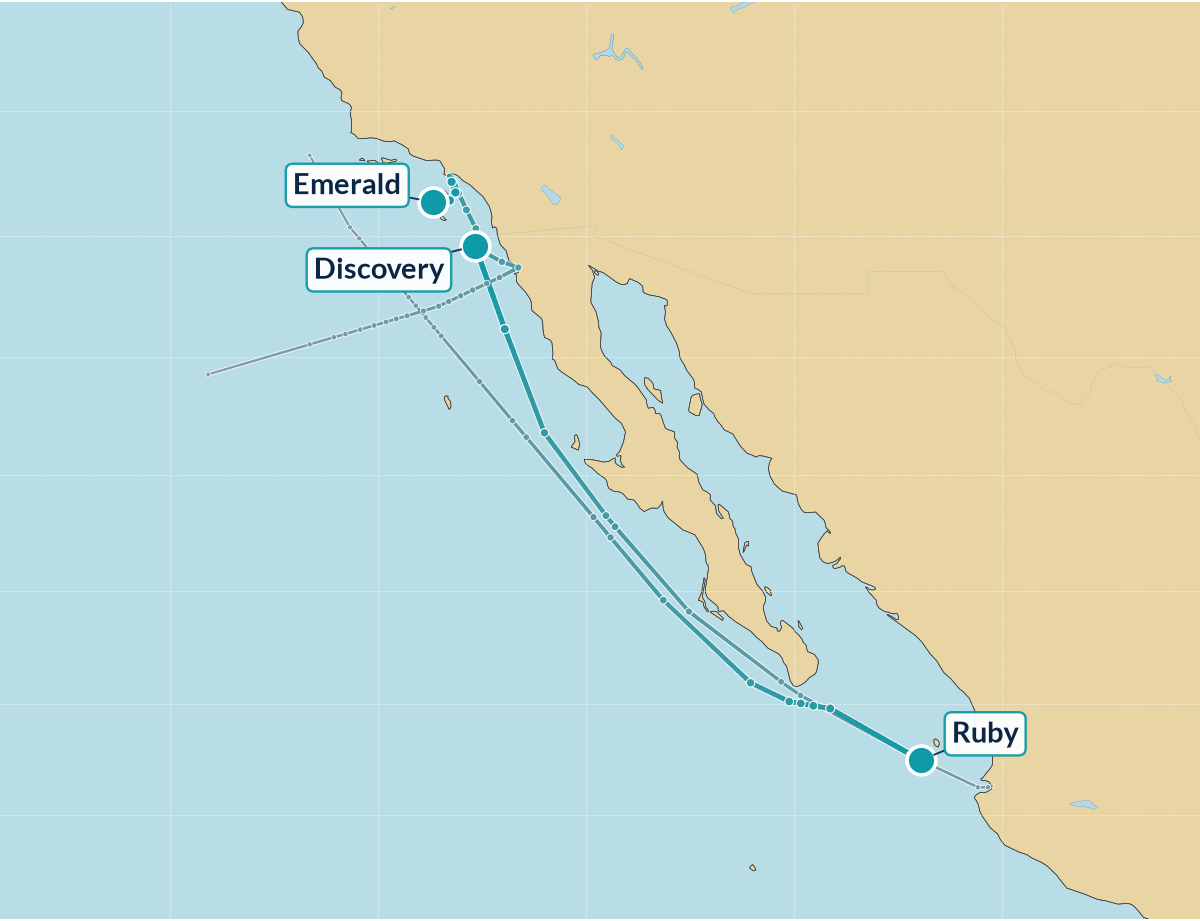
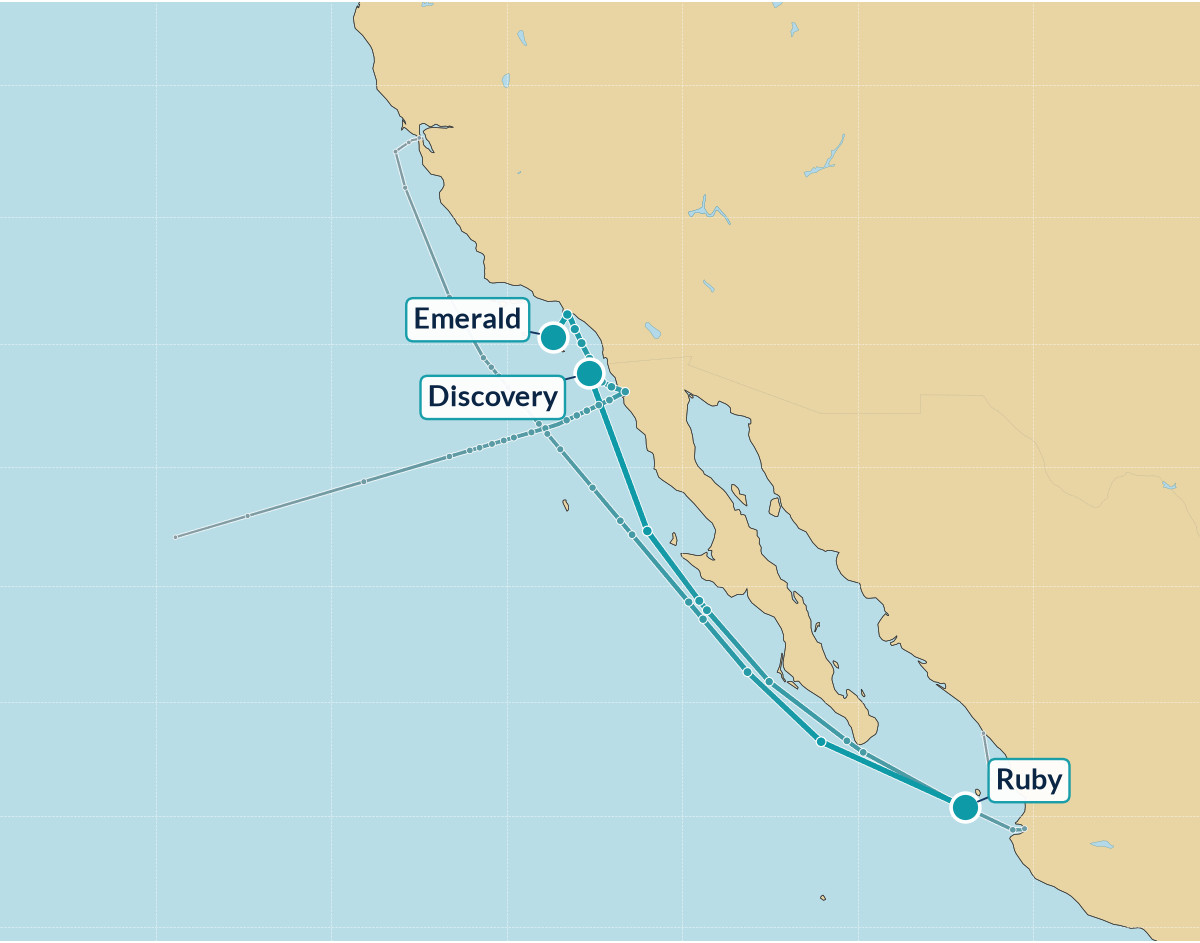
Update 10/17 00:01 PT

diff --git a/index.html b/index.html
@@ -4,45 +4,45 @@
 <table role="presentation" width="100%" cellpadding="0" cellspacing="0" border="0" bgcolor="#dee2e8" style="background-color:#dee2e8;border-collapse:collapse;"><tr><td align="center" style="padding:16px 8px;">
 <table role="presentation" width="100%" cellpadding="0" cellspacing="0" border="0" bgcolor="#fdfdfb" style="width:100%;max-width:900px;background-color:#fdfdfb;border-collapse:collapse;border:1px solid #d6dae0;">
 <tr><td bgcolor="#1d3a6b" align="left" style="background-color:#1d3a6b;padding:24px 28px 24px 28px;"><div style="font-family:Georgia, 'Times New Roman', Times, serif;font-size:40px;line-height:46px;color:#ffffff;letter-spacing:0.5px;"><span style="color:#a8b6e2;">≋</span>&nbsp;Princess Patter</div></td></tr>
-<tr><td style="padding:0;"><table role="presentation" width="100%" cellpadding="0" cellspacing="0" border="0" style="border-collapse:collapse;"><tr><td height="5" bgcolor="#6a5aa8" style="background-color:#6a5aa8;height:5px;font-size:0;line-height:0;width:60%;">&nbsp;</td><td height="5" bgcolor="#2f6db5" style="background-color:#2f6db5;height:5px;font-size:0;line-height:0;width:40%;">&nbsp;</td></tr></table></td></tr><tr><td bgcolor="#1d3a6b" style="background:linear-gradient(#1d3a6b,#2f6db5);padding:10px 16px 14px;text-align:center;"><img src="regal.png?v=202610162301" alt="Regal Princess" style="width:100%;max-width:640px;height:auto;display:block;margin:0 auto;"></td></tr>
+<tr><td style="padding:0;"><table role="presentation" width="100%" cellpadding="0" cellspacing="0" border="0" style="border-collapse:collapse;"><tr><td height="5" bgcolor="#6a5aa8" style="background-color:#6a5aa8;height:5px;font-size:0;line-height:0;width:60%;">&nbsp;</td><td height="5" bgcolor="#2f6db5" style="background-color:#2f6db5;height:5px;font-size:0;line-height:0;width:40%;">&nbsp;</td></tr></table></td></tr><tr><td bgcolor="#1d3a6b" style="background:linear-gradient(#1d3a6b,#2f6db5);padding:10px 16px 14px;text-align:center;"><img src="regal.png?v=202610170001" alt="Regal Princess" style="width:100%;max-width:640px;height:auto;display:block;margin:0 auto;"></td></tr>
 <tr><td style="padding:22px 20px 6px 20px;">
 <div style="font-family:Georgia, 'Times New Roman', Times, serif;font-style:italic;font-size:20px;line-height:26px;color:#2f6db5;">Good evening!</div>
 <div style="font-family:Georgia, 'Times New Roman', Times, serif;font-weight:bold;font-size:26px;line-height:32px;color:#1d3a6b;padding-top:6px;">Friday, October 16, 2026</div>
 <div style="font-family:Helvetica, Arial, sans-serif;font-size:16px;line-height:22px;color:#2f6db5;padding-top:4px;">11:00pm PT | 17 ships | 12 at sea, 5 in port</div>
-</td></tr><tr><td style="padding:14px 20px 0 20px;"><div style="font-family:Georgia, 'Times New Roman', Times, serif;font-style:italic;font-weight:bold;font-size:18px;color:#295aa0;padding:0 4px 4px;border-bottom:1px solid #295aa0;">pacific map</div><a href="map.png?v=202610162301"><img src="map.png?v=202610162301" alt="Pacific fleet map" style="width:100%;height:auto;display:block;margin-top:8px;border-radius:12px;border:2px solid #c8dee2;"></a></td></tr>
+</td></tr><tr><td style="padding:14px 20px 0 20px;"><div style="font-family:Georgia, 'Times New Roman', Times, serif;font-style:italic;font-weight:bold;font-size:18px;color:#295aa0;padding:0 4px 4px;border-bottom:1px solid #295aa0;">pacific map</div><a href="map.png?v=202610170001"><img src="map.png?v=202610170001" alt="Pacific fleet map" style="width:100%;height:auto;display:block;margin-top:8px;border-radius:12px;border:2px solid #c8dee2;"></a></td></tr>
 <tr><td style="padding:14px 20px 4px 20px;">
 <table role="presentation" width="100%" cellpadding="0" cellspacing="0" border="0" style="border-collapse:collapse;width:100%;font-family:Helvetica, Arial, sans-serif;font-size:15px;line-height:20px;color:#262c38;">
 <tr bgcolor="#2f6db5" style="background-color:#2f6db5;"><td style="font-size:14px;line-height:18px;font-weight:bold;color:#ffffff;text-align:left;padding:9px 8px;padding-left:10px;" colspan="2">Ship</td><td style="font-size:14px;line-height:18px;font-weight:bold;color:#ffffff;text-align:left;padding:9px 8px;">Where</td><td style="font-size:14px;line-height:18px;font-weight:bold;color:#ffffff;text-align:left;padding:9px 8px;">Next Port</td></tr>
 <tr><td colspan="4" style="padding:14px 4px 4px 4px;border-bottom:1px solid #295aa0;font-family:Georgia, 'Times New Roman', Times, serif;font-style:italic;font-weight:bold;font-size:18px;line-height:22px;color:#295aa0;">canada &amp; new england</td></tr>
-<tr bgcolor="#eef0f3" style="background-color:#eef0f3;"><td width="18" style="padding:7px 0 7px 8px;vertical-align:top;width:18px;color:#1a9a9a;font-size:18px;">&nbsp;</td><td style="padding:7px 8px;vertical-align:top;"><b style="color:#1d3a6b;">Sapphire</b></td><td style="padding:7px 8px;vertical-align:top;">At Sea <span style="white-space:nowrap;font-size:12px;color:#707884;" title="Forecast high/low">🌫&thinsp;57°</span> <span style="font-size:12px;color:#707884;"><span style="white-space:nowrap;">🌊 7 ft</span> &middot; <span style="white-space:nowrap;">💨 SW 23 kt</span> &middot; <span style="white-space:nowrap;">🚢 10.3 kn</span></span></td><td style="padding:7px 8px;vertical-align:top;">Halifax <span style="white-space:nowrap;font-size:12px;color:#707884;" title="Forecast high/low">🌦&thinsp;61°/36°</span> <span style="font-size:13px;color:#707884;">(10/17 3am)</span></td></tr>
+<tr bgcolor="#eef0f3" style="background-color:#eef0f3;"><td width="18" style="padding:7px 0 7px 8px;vertical-align:top;width:18px;color:#1a9a9a;font-size:18px;">&nbsp;</td><td style="padding:7px 8px;vertical-align:top;"><b style="color:#1d3a6b;">Sapphire</b></td><td style="padding:7px 8px;vertical-align:top;">At Sea <span style="white-space:nowrap;font-size:12px;color:#707884;" title="Forecast high/low">🌫&thinsp;57°</span> <span style="font-size:12px;color:#707884;"><span style="white-space:nowrap;">🌊 7 ft</span> &middot; <span style="white-space:nowrap;">💨 WSW 22 kt</span> &middot; <span style="white-space:nowrap;">🚢 10.3 kn</span></span></td><td style="padding:7px 8px;vertical-align:top;">Halifax <span style="white-space:nowrap;font-size:12px;color:#707884;" title="Forecast high/low">🌦&thinsp;61°/36°</span> <span style="font-size:13px;color:#707884;">(10/17 3am)</span></td></tr>
 <tr><td colspan="4" style="padding:14px 4px 4px 4px;border-bottom:1px solid #295aa0;font-family:Georgia, 'Times New Roman', Times, serif;font-style:italic;font-weight:bold;font-size:18px;line-height:22px;color:#295aa0;">caribbean</td></tr>
 <tr bgcolor="#eef0f3" style="background-color:#eef0f3;"><td width="18" style="padding:7px 0 7px 8px;vertical-align:top;width:18px;color:#1a9a9a;font-size:18px;">&nbsp;</td><td style="padding:7px 8px;vertical-align:top;"><b style="color:#1d3a6b;">Caribbean</b></td><td style="padding:7px 8px;vertical-align:top;">At Sea <span style="white-space:nowrap;font-size:12px;color:#707884;" title="Forecast high/low">🌙&thinsp;85°</span> <span style="font-size:12px;color:#707884;"><span style="white-space:nowrap;">🌊 4 ft</span> &middot; <span style="white-space:nowrap;">💨 ESE 12 kt</span> &middot; <span style="white-space:nowrap;">🚢 19.2 kn</span></span></td><td style="padding:7px 8px;vertical-align:top;">Port Canaveral <span style="white-space:nowrap;font-size:12px;color:#707884;" title="Forecast high/low">🌦&thinsp;79°/70°</span> <span style="font-size:13px;color:#707884;">(10/18 4am)</span></td></tr>
-<tr bgcolor="#ffffff" style="background-color:#ffffff;"><td width="18" style="padding:7px 0 7px 8px;vertical-align:top;width:18px;color:#1a9a9a;font-size:18px;">&nbsp;</td><td style="padding:7px 8px;vertical-align:top;"><b style="color:#1d3a6b;">Coral</b></td><td style="padding:7px 8px;vertical-align:top;">At Sea <span style="white-space:nowrap;font-size:12px;color:#707884;" title="Forecast high/low">🌙&thinsp;85°</span> <span style="font-size:12px;color:#707884;"><span style="white-space:nowrap;">🌊 4 ft</span> &middot; <span style="white-space:nowrap;">💨 ESE 10 kt</span> &middot; <span style="white-space:nowrap;">🚢 16.4 kn</span></span></td><td style="padding:7px 8px;vertical-align:top;">Philipsburg <span style="white-space:nowrap;font-size:12px;color:#707884;" title="Forecast high/low">🌦&thinsp;85°/82°</span> <span style="font-size:13px;color:#707884;">(10/18 6am)</span></td></tr>
-<tr bgcolor="#eef0f3" style="background-color:#eef0f3;"><td width="18" style="padding:7px 0 7px 8px;vertical-align:top;width:18px;color:#1a9a9a;font-size:18px;">&nbsp;</td><td style="padding:7px 8px;vertical-align:top;"><b style="color:#1d3a6b;">Island</b></td><td style="padding:7px 8px;vertical-align:top;">Cadiz <span style="white-space:nowrap;font-size:12px;color:#707884;" title="Forecast high/low">🌙&thinsp;68°</span> <span style="font-size:13px;color:#707884;">(10/17 11am)</span></td><td style="padding:7px 8px;vertical-align:top;">Cartagena <span style="font-size:13px;color:#707884;">(10/18 10pm)</span></td></tr>
-<tr bgcolor="#ffffff" style="background-color:#ffffff;"><td width="18" style="padding:7px 0 7px 8px;vertical-align:top;width:18px;color:#1a9a9a;font-size:18px;">&nbsp;</td><td style="padding:7px 8px;vertical-align:top;"><b style="color:#1d3a6b;">Regal</b></td><td style="padding:7px 8px;vertical-align:top;">At Sea <span style="white-space:nowrap;font-size:12px;color:#707884;" title="Forecast high/low">☁&thinsp;84°</span> <span style="font-size:12px;color:#707884;"><span style="white-space:nowrap;">🌊 1 ft</span> &middot; <span style="white-space:nowrap;">💨 ESE 8 kt</span> &middot; <span style="white-space:nowrap;">🚢 14.3 kn</span></span></td><td style="padding:7px 8px;vertical-align:top;">Fort Lauderdale <span style="white-space:nowrap;font-size:12px;color:#707884;" title="Forecast high/low">🌦&thinsp;84°/74°</span> <span style="font-size:13px;color:#707884;">(10/17 3am)</span></td></tr>
-<tr bgcolor="#eef0f3" style="background-color:#eef0f3;"><td width="18" style="padding:7px 0 7px 8px;vertical-align:top;width:18px;color:#1a9a9a;font-size:18px;">&nbsp;</td><td style="padding:7px 8px;vertical-align:top;"><b style="color:#1d3a6b;">Star</b></td><td style="padding:7px 8px;vertical-align:top;">At Sea <span style="white-space:nowrap;font-size:12px;color:#707884;" title="Forecast high/low">☁&thinsp;84°</span> <span style="font-size:12px;color:#707884;"><span style="white-space:nowrap;">🌊 6 ft</span> &middot; <span style="white-space:nowrap;">💨 E 20 kt</span> &middot; <span style="white-space:nowrap;">🚢 13.7 kn</span></span></td><td style="padding:7px 8px;vertical-align:top;">Oranjestad <span style="white-space:nowrap;font-size:12px;color:#707884;" title="Forecast high/low">🌦&thinsp;89°/82°</span> <span style="font-size:13px;color:#707884;">(10/17 4am)</span></td></tr>
+<tr bgcolor="#ffffff" style="background-color:#ffffff;"><td width="18" style="padding:7px 0 7px 8px;vertical-align:top;width:18px;color:#1a9a9a;font-size:18px;">&nbsp;</td><td style="padding:7px 8px;vertical-align:top;"><b style="color:#1d3a6b;">Coral</b></td><td style="padding:7px 8px;vertical-align:top;">At Sea <span style="white-space:nowrap;font-size:12px;color:#707884;" title="Forecast high/low">🌙&thinsp;85°</span> <span style="font-size:12px;color:#707884;"><span style="white-space:nowrap;">🌊 4 ft</span> &middot; <span style="white-space:nowrap;">💨 ESE 9 kt</span> &middot; <span style="white-space:nowrap;">🚢 16.4 kn</span></span></td><td style="padding:7px 8px;vertical-align:top;">Philipsburg <span style="white-space:nowrap;font-size:12px;color:#707884;" title="Forecast high/low">🌦&thinsp;85°/82°</span> <span style="font-size:13px;color:#707884;">(10/18 6am)</span></td></tr>
+<tr bgcolor="#eef0f3" style="background-color:#eef0f3;"><td width="18" style="padding:7px 0 7px 8px;vertical-align:top;width:18px;color:#1a9a9a;font-size:18px;">&nbsp;</td><td style="padding:7px 8px;vertical-align:top;"><b style="color:#1d3a6b;">Island</b></td><td style="padding:7px 8px;vertical-align:top;">Cadiz <span style="white-space:nowrap;font-size:12px;color:#707884;" title="Forecast high/low">⛅&thinsp;69°</span> <span style="font-size:13px;color:#707884;">(10/17 11am)</span></td><td style="padding:7px 8px;vertical-align:top;">Cartagena <span style="white-space:nowrap;font-size:12px;color:#707884;" title="Forecast high/low">⛈&thinsp;85°/76°</span> <span style="font-size:13px;color:#707884;">(10/18 10pm)</span></td></tr>
+<tr bgcolor="#ffffff" style="background-color:#ffffff;"><td width="18" style="padding:7px 0 7px 8px;vertical-align:top;width:18px;color:#1a9a9a;font-size:18px;">&nbsp;</td><td style="padding:7px 8px;vertical-align:top;"><b style="color:#1d3a6b;">Regal</b></td><td style="padding:7px 8px;vertical-align:top;">At Sea <span style="white-space:nowrap;font-size:12px;color:#707884;" title="Forecast high/low">☁&thinsp;84°</span> <span style="font-size:12px;color:#707884;"><span style="white-space:nowrap;">🌊 1 ft</span> &middot; <span style="white-space:nowrap;">💨 ESE 11 kt</span> &middot; <span style="white-space:nowrap;">🚢 14.3 kn</span></span></td><td style="padding:7px 8px;vertical-align:top;">Fort Lauderdale <span style="white-space:nowrap;font-size:12px;color:#707884;" title="Forecast high/low">🌦&thinsp;84°/74°</span> <span style="font-size:13px;color:#707884;">(10/17 3am)</span></td></tr>
+<tr bgcolor="#eef0f3" style="background-color:#eef0f3;"><td width="18" style="padding:7px 0 7px 8px;vertical-align:top;width:18px;color:#1a9a9a;font-size:18px;">&nbsp;</td><td style="padding:7px 8px;vertical-align:top;"><b style="color:#1d3a6b;">Star</b></td><td style="padding:7px 8px;vertical-align:top;">At Sea <span style="white-space:nowrap;font-size:12px;color:#707884;" title="Forecast high/low">☁&thinsp;84°</span> <span style="font-size:12px;color:#707884;"><span style="white-space:nowrap;">🌊 6 ft</span> &middot; <span style="white-space:nowrap;">💨 E 19 kt</span> &middot; <span style="white-space:nowrap;">🚢 13.7 kn</span></span></td><td style="padding:7px 8px;vertical-align:top;">Oranjestad <span style="white-space:nowrap;font-size:12px;color:#707884;" title="Forecast high/low">🌦&thinsp;89°/82°</span> <span style="font-size:13px;color:#707884;">(10/17 4am)</span></td></tr>
 <tr><td colspan="4" style="padding:14px 4px 4px 4px;border-bottom:1px solid #295aa0;font-family:Georgia, 'Times New Roman', Times, serif;font-style:italic;font-weight:bold;font-size:18px;line-height:22px;color:#295aa0;">hawaii</td></tr>
-<tr bgcolor="#eef0f3" style="background-color:#eef0f3;"><td width="18" style="padding:7px 0 7px 8px;vertical-align:top;width:18px;color:#1a9a9a;font-size:18px;">&nbsp;</td><td style="padding:7px 8px;vertical-align:top;"><b style="color:#1d3a6b;">Emerald</b></td><td style="padding:7px 8px;vertical-align:top;">At Sea <span style="white-space:nowrap;font-size:12px;color:#707884;" title="Forecast high/low">🌙&thinsp;79°</span> <span style="font-size:12px;color:#707884;"><span style="white-space:nowrap;">🌊 3 ft</span> &middot; <span style="white-space:nowrap;">💨 ENE 2 kt</span> &middot; <span style="white-space:nowrap;">🚢 17.0 kn</span></span></td><td style="padding:7px 8px;vertical-align:top;">Hilo <span style="white-space:nowrap;font-size:12px;color:#707884;" title="Forecast high/low">🌦&thinsp;79°/62°</span> <span style="font-size:13px;color:#707884;">(10/22 11am)</span></td></tr>
+<tr bgcolor="#eef0f3" style="background-color:#eef0f3;"><td width="18" style="padding:7px 0 7px 8px;vertical-align:top;width:18px;color:#1a9a9a;font-size:18px;">&nbsp;</td><td style="padding:7px 8px;vertical-align:top;"><b style="color:#1d3a6b;">Emerald</b></td><td style="padding:7px 8px;vertical-align:top;">At Sea <span style="white-space:nowrap;font-size:12px;color:#707884;" title="Forecast high/low">🌙&thinsp;78°</span> <span style="font-size:12px;color:#707884;"><span style="white-space:nowrap;">🌊 3 ft</span> &middot; <span style="white-space:nowrap;">💨 E 4 kt</span> &middot; <span style="white-space:nowrap;">🚢 17.0 kn</span></span></td><td style="padding:7px 8px;vertical-align:top;">Hilo <span style="white-space:nowrap;font-size:12px;color:#707884;" title="Forecast high/low">🌦&thinsp;79°/62°</span> <span style="font-size:13px;color:#707884;">(10/22 11am)</span></td></tr>
 <tr><td colspan="4" style="padding:14px 4px 4px 4px;border-bottom:1px solid #295aa0;font-family:Georgia, 'Times New Roman', Times, serif;font-style:italic;font-weight:bold;font-size:18px;line-height:22px;color:#295aa0;">mexican riviera</td></tr>
-<tr bgcolor="#eef0f3" style="background-color:#eef0f3;"><td width="18" style="padding:7px 0 7px 8px;vertical-align:top;width:18px;color:#1a9a9a;font-size:18px;">&nbsp;</td><td style="padding:7px 8px;vertical-align:top;"><b style="color:#1d3a6b;">Discovery</b></td><td style="padding:7px 8px;vertical-align:top;">At Sea <span style="white-space:nowrap;font-size:12px;color:#707884;" title="Forecast high/low">🌙&thinsp;76°</span> <span style="font-size:12px;color:#707884;"><span style="white-space:nowrap;">🌊 3 ft</span> &middot; <span style="white-space:nowrap;">💨 NE 14 kt</span> &middot; <span style="white-space:nowrap;">🚢 15.8 kn</span></span></td><td style="padding:7px 8px;vertical-align:top;">Los Angeles <span style="white-space:nowrap;font-size:12px;color:#707884;" title="Forecast high/low">☁&thinsp;93°/69°</span> <span style="font-size:13px;color:#707884;">(10/17 6:15am)</span></td></tr>
-<tr bgcolor="#ffffff" style="background-color:#ffffff;"><td width="18" style="padding:7px 0 7px 8px;vertical-align:top;width:18px;color:#1a9a9a;font-size:18px;">&nbsp;</td><td style="padding:7px 8px;vertical-align:top;"><b style="color:#1d3a6b;">Ruby</b></td><td style="padding:7px 8px;vertical-align:top;">At Sea <span style="white-space:nowrap;font-size:12px;color:#707884;" title="Forecast high/low">🌙&thinsp;84°</span> <span style="font-size:12px;color:#707884;"><span style="white-space:nowrap;">🌊 7 ft</span> &middot; <span style="white-space:nowrap;">💨 NNE 6 kt</span> &middot; <span style="white-space:nowrap;">🚢 18.8 kn</span></span></td><td style="padding:7px 8px;vertical-align:top;">Puerto Vallarta <span style="white-space:nowrap;font-size:12px;color:#707884;" title="Forecast high/low">🌦&thinsp;90°/78°</span> <span style="font-size:13px;color:#707884;">(10/17 7am)</span></td></tr>
+<tr bgcolor="#eef0f3" style="background-color:#eef0f3;"><td width="18" style="padding:7px 0 7px 8px;vertical-align:top;width:18px;color:#1a9a9a;font-size:18px;">&nbsp;</td><td style="padding:7px 8px;vertical-align:top;"><b style="color:#1d3a6b;">Discovery</b></td><td style="padding:7px 8px;vertical-align:top;">At Sea <span style="white-space:nowrap;font-size:12px;color:#707884;" title="Forecast high/low">☁&thinsp;76°</span> <span style="font-size:12px;color:#707884;"><span style="white-space:nowrap;">🌊 3 ft</span> &middot; <span style="white-space:nowrap;">💨 WNW 1 kt</span> &middot; <span style="white-space:nowrap;">🚢 15.8 kn</span></span></td><td style="padding:7px 8px;vertical-align:top;">Los Angeles <span style="white-space:nowrap;font-size:12px;color:#707884;" title="Forecast high/low">☁&thinsp;94°/69°</span> <span style="font-size:13px;color:#707884;">(10/17 6:15am)</span></td></tr>
+<tr bgcolor="#ffffff" style="background-color:#ffffff;"><td width="18" style="padding:7px 0 7px 8px;vertical-align:top;width:18px;color:#1a9a9a;font-size:18px;">&nbsp;</td><td style="padding:7px 8px;vertical-align:top;"><b style="color:#1d3a6b;">Ruby</b></td><td style="padding:7px 8px;vertical-align:top;">At Sea <span style="white-space:nowrap;font-size:12px;color:#707884;" title="Forecast high/low">☁&thinsp;84°</span> <span style="font-size:12px;color:#707884;"><span style="white-space:nowrap;">🌊 7 ft</span> &middot; <span style="white-space:nowrap;">💨 NNE 5 kt</span> &middot; <span style="white-space:nowrap;">🚢 18.8 kn</span></span></td><td style="padding:7px 8px;vertical-align:top;">Puerto Vallarta <span style="white-space:nowrap;font-size:12px;color:#707884;" title="Forecast high/low">🌦&thinsp;90°/78°</span> <span style="font-size:13px;color:#707884;">(10/17 7am)</span></td></tr>
 <tr><td colspan="4" style="padding:14px 4px 4px 4px;border-bottom:1px solid #295aa0;font-family:Georgia, 'Times New Roman', Times, serif;font-style:italic;font-weight:bold;font-size:18px;line-height:22px;color:#295aa0;">asia</td></tr>
-<tr bgcolor="#eef0f3" style="background-color:#eef0f3;"><td width="18" style="padding:7px 0 7px 8px;vertical-align:top;width:18px;color:#1a9a9a;font-size:18px;">&nbsp;</td><td style="padding:7px 8px;vertical-align:top;"><b style="color:#1d3a6b;">Diamond</b></td><td style="padding:7px 8px;vertical-align:top;">Nagasaki <span style="white-space:nowrap;font-size:12px;color:#707884;" title="Forecast high/low">☀&thinsp;81°</span> <span style="font-size:13px;color:#707884;">(10/17 12am)</span></td><td style="padding:7px 8px;vertical-align:top;">Yokohama <span style="white-space:nowrap;font-size:12px;color:#707884;" title="Forecast high/low">☀&thinsp;71°/56°</span> <span style="font-size:13px;color:#707884;">(10/18 2:30pm)</span></td></tr>
+<tr bgcolor="#eef0f3" style="background-color:#eef0f3;"><td width="18" style="padding:7px 0 7px 8px;vertical-align:top;width:18px;color:#1a9a9a;font-size:18px;">&nbsp;</td><td style="padding:7px 8px;vertical-align:top;"><b style="color:#1d3a6b;">Diamond</b></td><td style="padding:7px 8px;vertical-align:top;">Nagasaki <span style="white-space:nowrap;font-size:12px;color:#707884;" title="Forecast high/low">☀&thinsp;80°</span> <span style="font-size:13px;color:#707884;">(10/17 12am)</span></td><td style="padding:7px 8px;vertical-align:top;">Yokohama <span style="white-space:nowrap;font-size:12px;color:#707884;" title="Forecast high/low">☀&thinsp;71°/55°</span> <span style="font-size:13px;color:#707884;">(10/18 2:30pm)</span></td></tr>
 <tr bgcolor="#f6e7b0" style="background-color:#f6e7b0;"><td width="18" style="border-left:4px solid #be8c14;padding:7px 0 7px 8px;vertical-align:top;width:18px;color:#1a9a9a;font-size:18px;">&nbsp;</td><td style="padding:7px 8px;vertical-align:top;"><b style="color:#1d3a6b;">Royal</b></td><td style="padding:7px 8px;vertical-align:top;"><span style="color:#d6a214;" title="Maiden call">&#9733;</span>&nbsp;Singapore <span style="font-size:13px;color:#707884;">(Drydock)</span> <span style="display:inline-block;font-size:10px;line-height:14px;font-weight:bold;letter-spacing:0.4px;color:#966c00;background-color:#fcf3d6;border:1px solid #d6a214;border-radius:8px;padding:0 5px;white-space:nowrap;">MAIDEN CALL</span></td><td style="padding:7px 8px;vertical-align:top;">Drydock <span style="font-size:13px;color:#707884;">(to 11/1)</span></td></tr>
 <tr><td colspan="4" style="padding:14px 4px 4px 4px;border-bottom:1px solid #295aa0;font-family:Georgia, 'Times New Roman', Times, serif;font-style:italic;font-weight:bold;font-size:18px;line-height:22px;color:#295aa0;">australia &amp; new zealand</td></tr>
-<tr bgcolor="#eef0f3" style="background-color:#eef0f3;"><td width="18" style="padding:7px 0 7px 8px;vertical-align:top;width:18px;color:#1a9a9a;font-size:18px;">&nbsp;</td><td style="padding:7px 8px;vertical-align:top;"><b style="color:#1d3a6b;">Crown</b></td><td style="padding:7px 8px;vertical-align:top;">At Sea <span style="white-space:nowrap;font-size:12px;color:#707884;" title="Forecast high/low">☀&thinsp;66°</span> <span style="font-size:12px;color:#707884;"><span style="white-space:nowrap;">🌊 11 ft</span> &middot; <span style="white-space:nowrap;">💨 NNW 11 kt</span> &middot; <span style="white-space:nowrap;">🚢 10.7 kn</span></span></td><td style="padding:7px 8px;vertical-align:top;">Fremantle <span style="font-size:13px;color:#707884;">(10/17 4pm)</span></td></tr>
+<tr bgcolor="#eef0f3" style="background-color:#eef0f3;"><td width="18" style="padding:7px 0 7px 8px;vertical-align:top;width:18px;color:#1a9a9a;font-size:18px;">&nbsp;</td><td style="padding:7px 8px;vertical-align:top;"><b style="color:#1d3a6b;">Crown</b></td><td style="padding:7px 8px;vertical-align:top;">At Sea <span style="white-space:nowrap;font-size:12px;color:#707884;" title="Forecast high/low">☀&thinsp;67°</span> <span style="font-size:12px;color:#707884;"><span style="white-space:nowrap;">🌊 11 ft</span> &middot; <span style="white-space:nowrap;">💨 NNW 11 kt</span> &middot; <span style="white-space:nowrap;">🚢 10.7 kn</span></span></td><td style="padding:7px 8px;vertical-align:top;">Fremantle <span style="white-space:nowrap;font-size:12px;color:#707884;" title="Forecast high/low">🌫&thinsp;69°/56°</span> <span style="font-size:13px;color:#707884;">(10/17 4pm)</span></td></tr>
 <tr><td colspan="4" style="padding:14px 4px 4px 4px;border-bottom:1px solid #295aa0;font-family:Georgia, 'Times New Roman', Times, serif;font-style:italic;font-weight:bold;font-size:18px;line-height:22px;color:#295aa0;">mediterranean</td></tr>
-<tr bgcolor="#eef0f3" style="background-color:#eef0f3;"><td width="18" style="padding:7px 0 7px 8px;vertical-align:top;width:18px;color:#1a9a9a;font-size:18px;">&nbsp;</td><td style="padding:7px 8px;vertical-align:top;"><b style="color:#1d3a6b;">Enchanted</b></td><td style="padding:7px 8px;vertical-align:top;">Kusadasi <span style="white-space:nowrap;font-size:12px;color:#707884;" title="Forecast high/low">☁&thinsp;56°</span> <span style="font-size:13px;color:#707884;">(10/17 6am)</span></td><td style="padding:7px 8px;vertical-align:top;">Katakolon <span style="font-size:13px;color:#707884;">(10/18 2am)</span></td></tr>
-<tr bgcolor="#ffffff" style="background-color:#ffffff;"><td width="18" style="padding:7px 0 7px 8px;vertical-align:top;width:18px;color:#1a9a9a;font-size:18px;">&nbsp;</td><td style="padding:7px 8px;vertical-align:top;"><b style="color:#1d3a6b;">Sun</b></td><td style="padding:7px 8px;vertical-align:top;">Civitavecchia <span style="white-space:nowrap;font-size:12px;color:#707884;" title="Forecast high/low">☁&thinsp;63°</span> <span style="font-size:13px;color:#707884;">(10/17 9am)</span></td><td style="padding:7px 8px;vertical-align:top;">Naples <span style="font-size:13px;color:#707884;">(10/17 10pm)</span></td></tr>
+<tr bgcolor="#eef0f3" style="background-color:#eef0f3;"><td width="18" style="padding:7px 0 7px 8px;vertical-align:top;width:18px;color:#1a9a9a;font-size:18px;">&nbsp;</td><td style="padding:7px 8px;vertical-align:top;"><b style="color:#1d3a6b;">Enchanted</b></td><td style="padding:7px 8px;vertical-align:top;">Kusadasi <span style="white-space:nowrap;font-size:12px;color:#707884;" title="Forecast high/low">🌧&thinsp;56°</span> <span style="font-size:13px;color:#707884;">(10/17 6am)</span></td><td style="padding:7px 8px;vertical-align:top;">Katakolon <span style="font-size:13px;color:#707884;">(10/18 2am)</span></td></tr>
+<tr bgcolor="#ffffff" style="background-color:#ffffff;"><td width="18" style="padding:7px 0 7px 8px;vertical-align:top;width:18px;color:#1a9a9a;font-size:18px;">&nbsp;</td><td style="padding:7px 8px;vertical-align:top;"><b style="color:#1d3a6b;">Sun</b></td><td style="padding:7px 8px;vertical-align:top;">Civitavecchia <span style="white-space:nowrap;font-size:12px;color:#707884;" title="Forecast high/low">☁&thinsp;66°</span> <span style="font-size:13px;color:#707884;">(10/17 9am)</span></td><td style="padding:7px 8px;vertical-align:top;">Naples <span style="white-space:nowrap;font-size:12px;color:#707884;" title="Forecast high/low">☁&thinsp;72°/60°</span> <span style="font-size:13px;color:#707884;">(10/17 10pm)</span></td></tr>
 <tr><td colspan="4" style="padding:14px 4px 4px 4px;border-bottom:1px solid #295aa0;font-family:Georgia, 'Times New Roman', Times, serif;font-style:italic;font-weight:bold;font-size:18px;line-height:22px;color:#295aa0;">northern europe</td></tr>
-<tr bgcolor="#eef0f3" style="background-color:#eef0f3;"><td width="18" style="padding:7px 0 7px 8px;vertical-align:top;width:18px;color:#1a9a9a;font-size:18px;">&nbsp;</td><td style="padding:7px 8px;vertical-align:top;"><b style="color:#1d3a6b;">Sky</b></td><td style="padding:7px 8px;vertical-align:top;">At Sea <span style="white-space:nowrap;font-size:12px;color:#707884;" title="Forecast high/low">🌙&thinsp;38°</span> <span style="font-size:12px;color:#707884;"><span style="white-space:nowrap;">💨 N 5 kt</span> &middot; <span style="white-space:nowrap;">🚢 11.4 kn</span></span></td><td style="padding:7px 8px;vertical-align:top;">Oslo <span style="white-space:nowrap;font-size:12px;color:#707884;" title="Forecast high/low">⛅&thinsp;53°/41°</span> <span style="font-size:13px;color:#707884;">(~10/16)</span></td></tr>
+<tr bgcolor="#eef0f3" style="background-color:#eef0f3;"><td width="18" style="padding:7px 0 7px 8px;vertical-align:top;width:18px;color:#1a9a9a;font-size:18px;">&nbsp;</td><td style="padding:7px 8px;vertical-align:top;"><b style="color:#1d3a6b;">Sky</b></td><td style="padding:7px 8px;vertical-align:top;">At Sea <span style="white-space:nowrap;font-size:12px;color:#707884;" title="Forecast high/low">☀&thinsp;38°</span> <span style="font-size:12px;color:#707884;"><span style="white-space:nowrap;">💨 N 5 kt</span> &middot; <span style="white-space:nowrap;">🚢 11.4 kn</span></span></td><td style="padding:7px 8px;vertical-align:top;">Oslo <span style="white-space:nowrap;font-size:12px;color:#707884;" title="Forecast high/low">☀&thinsp;53°/41°</span> <span style="font-size:13px;color:#707884;">(~10/16)</span></td></tr>
 <tr><td colspan="4" style="padding:14px 4px 4px 4px;border-bottom:1px solid #295aa0;font-family:Georgia, 'Times New Roman', Times, serif;font-style:italic;font-weight:bold;font-size:18px;line-height:22px;color:#295aa0;">repositioning</td></tr>
-<tr bgcolor="#eef0f3" style="background-color:#eef0f3;"><td width="18" style="padding:7px 0 7px 8px;vertical-align:top;width:18px;color:#1a9a9a;font-size:18px;">&nbsp;</td><td style="padding:7px 8px;vertical-align:top;"><b style="color:#1d3a6b;">Majestic</b></td><td style="padding:7px 8px;vertical-align:top;">At Sea <span style="white-space:nowrap;font-size:12px;color:#707884;" title="Forecast high/low">☁&thinsp;62°</span> <span style="font-size:12px;color:#707884;"><span style="white-space:nowrap;">🌊 4 ft</span> &middot; <span style="white-space:nowrap;">💨 NNW 21 kt</span> &middot; <span style="white-space:nowrap;">🚢 14.2 kn</span></span></td><td style="padding:7px 8px;vertical-align:top;">New York <span style="white-space:nowrap;font-size:12px;color:#707884;" title="Forecast high/low">☁&thinsp;61°/38°</span> <span style="font-size:13px;color:#707884;">(10/17 4am)</span></td></tr>
+<tr bgcolor="#eef0f3" style="background-color:#eef0f3;"><td width="18" style="padding:7px 0 7px 8px;vertical-align:top;width:18px;color:#1a9a9a;font-size:18px;">&nbsp;</td><td style="padding:7px 8px;vertical-align:top;"><b style="color:#1d3a6b;">Majestic</b></td><td style="padding:7px 8px;vertical-align:top;">At Sea <span style="white-space:nowrap;font-size:12px;color:#707884;" title="Forecast high/low">☁&thinsp;60°</span> <span style="font-size:12px;color:#707884;"><span style="white-space:nowrap;">🌊 4 ft</span> &middot; <span style="white-space:nowrap;">💨 NNW 26 kt</span> &middot; <span style="white-space:nowrap;">🚢 14.2 kn</span></span></td><td style="padding:7px 8px;vertical-align:top;">New York <span style="white-space:nowrap;font-size:12px;color:#707884;" title="Forecast high/low">☁&thinsp;63°/38°</span> <span style="font-size:13px;color:#707884;">(10/17 4am)</span></td></tr>
 <tr><td colspan="4" style="padding:14px 4px 4px 4px;border-bottom:1px solid #295aa0;font-family:Georgia, 'Times New Roman', Times, serif;font-style:italic;font-weight:bold;font-size:18px;line-height:22px;color:#295aa0;">tahiti &amp; south pacific</td></tr>
-<tr bgcolor="#eef0f3" style="background-color:#eef0f3;"><td width="18" style="padding:7px 0 7px 8px;vertical-align:top;width:18px;color:#1a9a9a;font-size:18px;">&nbsp;</td><td style="padding:7px 8px;vertical-align:top;"><b style="color:#1d3a6b;">Grand</b></td><td style="padding:7px 8px;vertical-align:top;">At Sea <span style="white-space:nowrap;font-size:12px;color:#707884;" title="Forecast high/low">🌧&thinsp;81°</span> <span style="font-size:12px;color:#707884;"><span style="white-space:nowrap;">🌊 6 ft</span> &middot; <span style="white-space:nowrap;">💨 ESE 9 kt</span> &middot; <span style="white-space:nowrap;">🚢 17.3 kn</span></span></td><td style="padding:7px 8px;vertical-align:top;">Apia <span style="white-space:nowrap;font-size:12px;color:#707884;" title="Forecast high/low">🌦&thinsp;80°/72°</span> <span style="font-size:13px;color:#707884;">(10/20 12pm)</span></td></tr>
+<tr bgcolor="#eef0f3" style="background-color:#eef0f3;"><td width="18" style="padding:7px 0 7px 8px;vertical-align:top;width:18px;color:#1a9a9a;font-size:18px;">&nbsp;</td><td style="padding:7px 8px;vertical-align:top;"><b style="color:#1d3a6b;">Grand</b></td><td style="padding:7px 8px;vertical-align:top;">At Sea <span style="white-space:nowrap;font-size:12px;color:#707884;" title="Forecast high/low">🌧&thinsp;82°</span> <span style="font-size:12px;color:#707884;"><span style="white-space:nowrap;">🌊 5 ft</span> &middot; <span style="white-space:nowrap;">💨 ESE 9 kt</span> &middot; <span style="white-space:nowrap;">🚢 17.3 kn</span></span></td><td style="padding:7px 8px;vertical-align:top;">Apia <span style="white-space:nowrap;font-size:12px;color:#707884;" title="Forecast high/low">🌦&thinsp;80°/72°</span> <span style="font-size:13px;color:#707884;">(10/20 12pm)</span></td></tr>
 </table>
 <div style="font-family:Helvetica, Arial, sans-serif;font-size:13px;line-height:18px;color:#707884;padding:8px 4px 0 4px;"><span style="color:#d6a214;">&#9733;</span> = maiden call (a ship’s first-ever visit to that port)<br><span style="display:inline-block;width:22px;height:12px;background-color:#f6e7b0;border-left:4px solid #be8c14;vertical-align:middle;font-size:0;line-height:0;">&nbsp;</span> Gold row = in port on its maiden call</div>
 </td></tr>
 <tr><td align="center" style="padding:22px 20px 6px 20px;font-family:Georgia, 'Times New Roman', Times, serif;font-style:italic;font-size:17px;line-height:24px;color:#295aa0;text-align:center;">“Bon voyage!”</td></tr>
-<tr><td align="center" style="padding:2px 20px 24px 20px;font-family:Helvetica, Arial, sans-serif;font-size:12px;line-height:18px;color:#707884;text-align:center;">Fleet positions from Pavlus AIS plus published schedules. Dates/times PT; ~ = AIS estimate.<br>Page updated 10/16/26 11:01pm PT after each fleet check-in.</td></tr>
+<tr><td align="center" style="padding:2px 20px 24px 20px;font-family:Helvetica, Arial, sans-serif;font-size:12px;line-height:18px;color:#707884;text-align:center;">Fleet positions from Pavlus AIS plus published schedules. Dates/times PT; ~ = AIS estimate.<br>Page updated 10/17/26 12:01am PT after each fleet check-in.</td></tr>
 </table></td></tr></table></body></html>
